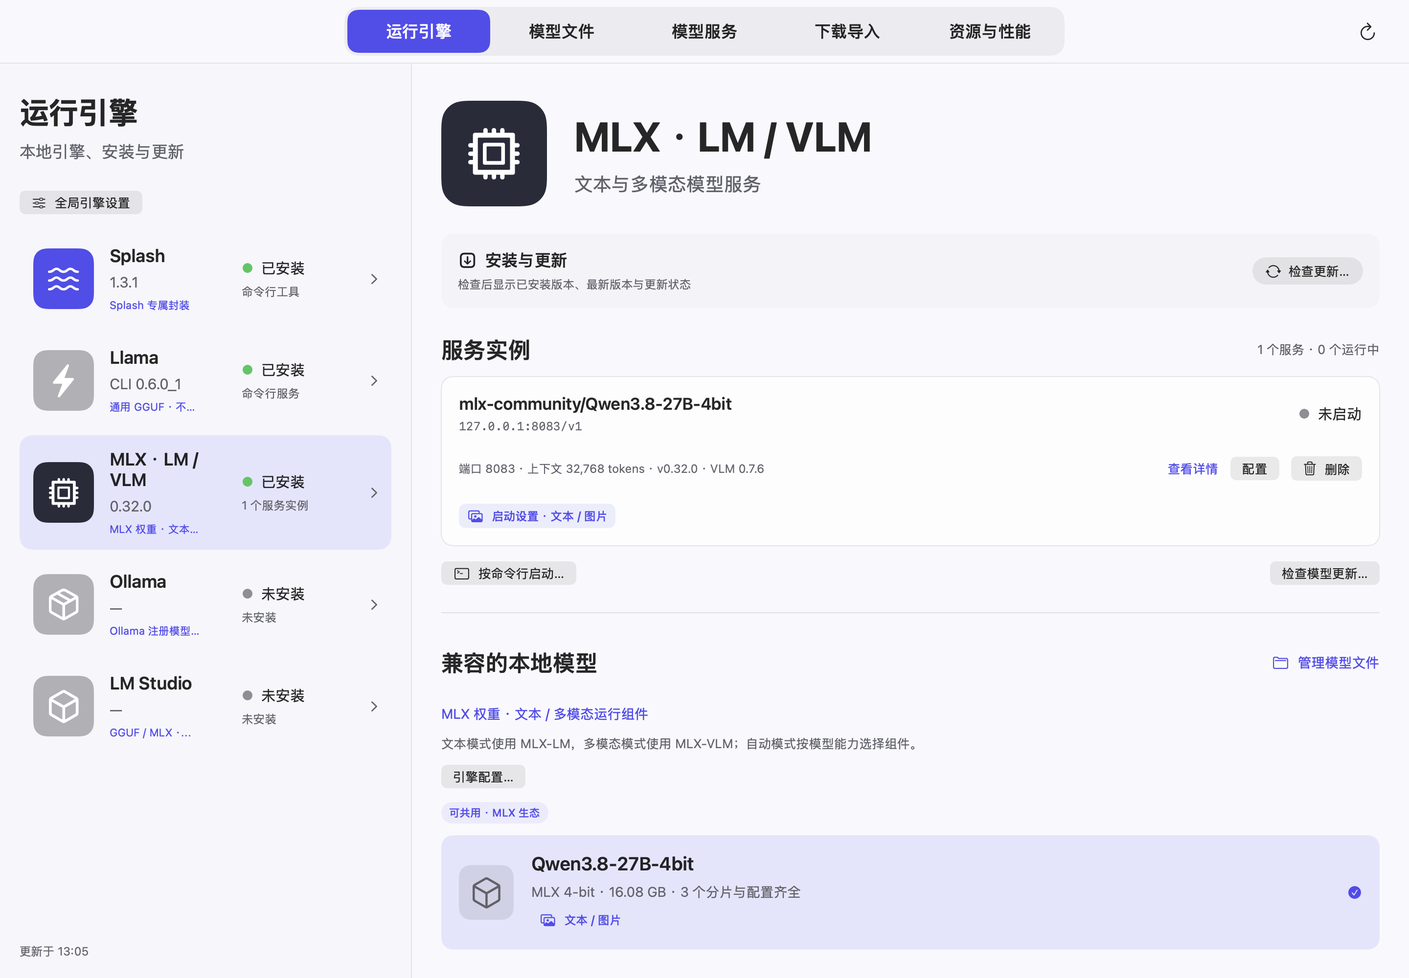
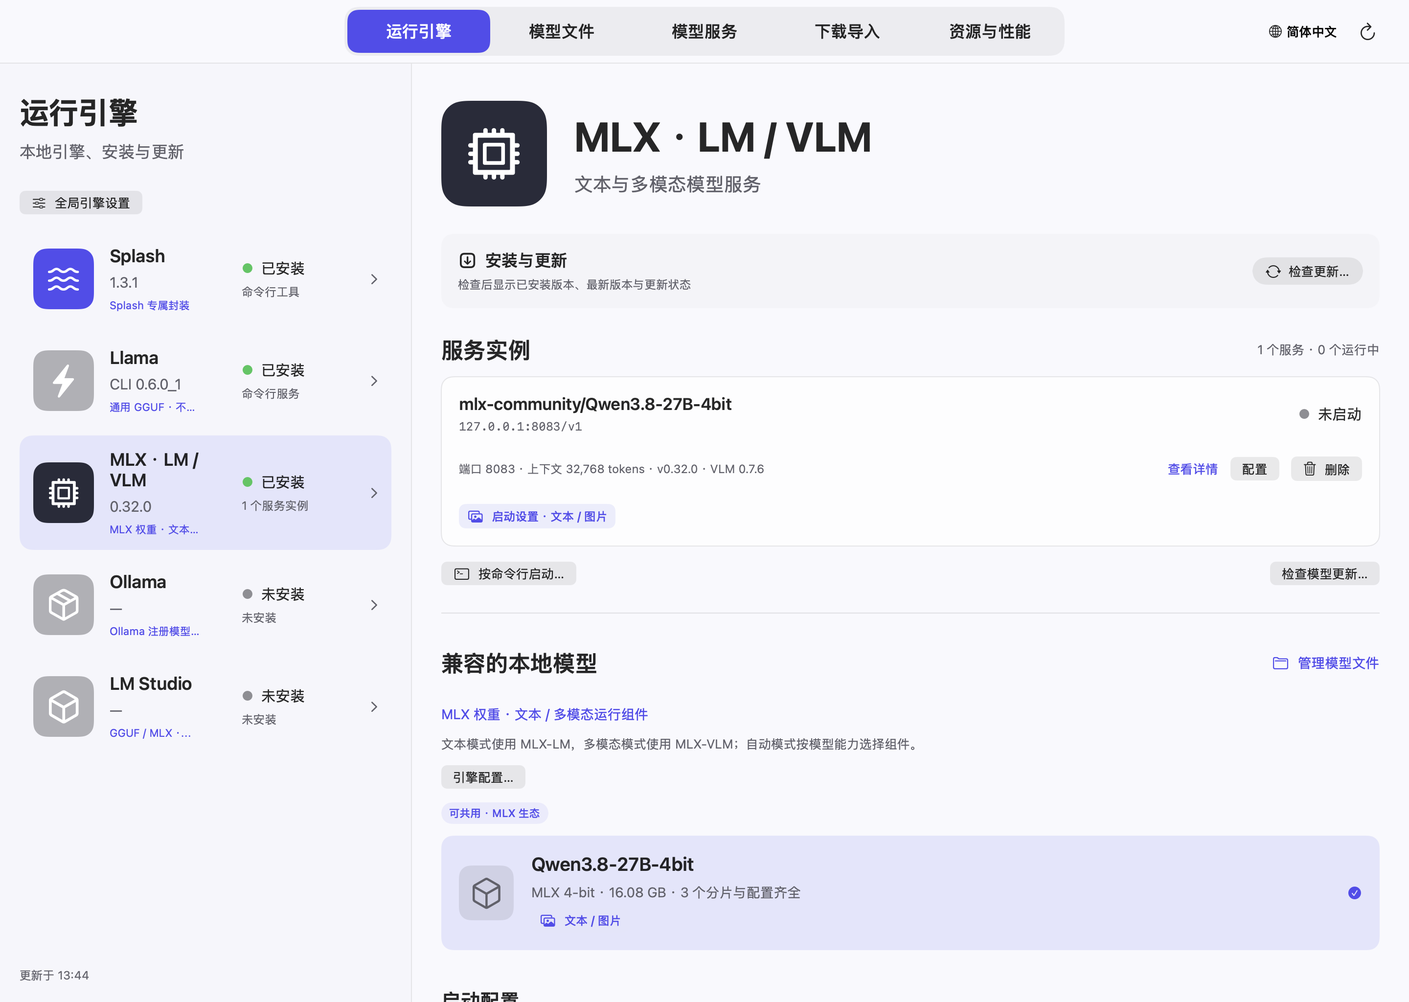
Add direct language menu shortcut in ModelDock 0.8.1

diff --git a/website/site.js b/website/site.js
@@ -10,7 +10,7 @@
       controlEye:'Stay in control',controlTitle:'Big downloads.<br>Small, clear decisions.',controlCopy:'Pause one file to make room for another. Keep old model revisions for later switching. Review cleanup before removing files.',controlOne:'Per-task and per-file progress, percentages and transfer speed.',controlTwo:'Task deletion preserves files; incomplete-file cleanup is a separate action.',controlThree:'Running models and shared auxiliary files receive deletion protection.',detailCaption:'Pause a file or prioritize another while keeping resumable data.',
       engineEye:'Use a compatible engine',engineTitle:'One manager. Different runtimes.',engineCopy:'Input capabilities depend on the model, its auxiliary components, and the actual runtime version.',engineCol:'Engine',formatCol:'Models',inputCol:'How it runs',splashModels:'Compatible upstream MLX; matching legacy packed models',splashInput:'Text; supported current assemblies can include images/PDFs and matched drafts',llamaInput:'Text or supported media with a matching projector',mlxInput:'LM for text; VLM for supported multimodal architectures',ollamaModels:'Ollama-registered models',ollamaInput:'Native model lifecycle and per-model capabilities',studioInput:'Load through the application or its supported CLI',prismInput:'Support depends on the local build and model architecture',strataModels:'External compatible API',strataInput:'Connect an upstream service; native Mac installation is not bundled',
       gatewayEye:'Bring your own client',gatewayTitle:'Direct connection.<br>Or one shared gateway.',gatewayCopy:"Register a ready model in pi or OpenCode. Use its own endpoint, or route local services and remote compatible APIs through ModelDock's gateway.",gatewayLink:'See the connection guide →',otherClient:'Your client',gatewayNode:'ModelDock gateway',localRoute:'Local services',remoteRoute:'Remote APIs',directNote:'Direct service endpoints remain available.',
-      languageEye:'Make it yours',languageTitle:'English by default.<br>Switch when you want.',languageCopy:'Choose English, Simplified Chinese, French, Portuguese or system language in Settings. The interface updates immediately.',menuTitle:'Keep the window closed.',menuCopy:'Watch system resources and downloads from the menu bar. Click outside the panel to dismiss it; reopen the manager when needed.',
+      languageEye:'Make it yours',languageTitle:'English by default.<br>Switch when you want.',languageCopy:'Use the globe/language button at the top right to choose English, Simplified Chinese, French, Portuguese or system language. The interface updates immediately; Settings also keeps the language option.',menuTitle:'Keep the window closed.',menuCopy:'Watch system resources and downloads from the menu bar. Click outside the panel to dismiss it; reopen the manager when needed.',
       licenseEye:'Source available · Noncommercial',licenseTitle:'Explore it. Learn from it.<br>Keep it noncommercial.',licenseCopy:'First-party code and documentation use PolyForm Noncommercial 1.0.0. Permitted noncommercial use, modification and redistribution are allowed; commercial use is not granted. Third-party engines and models keep their own terms.',licenseLink:'Read the license ↗',finalTitle:'Give your models a home.',source:'View the source ↗',installNote:'Current releases are not Apple-notarized. See the installation guide before opening a downloaded copy.',footer:'Made for local AI on Mac. Source-available, for noncommercial purposes.'
     },
     zh: {
@@ -19,7 +19,7 @@
       controlEye:'掌握下载与文件',controlTitle:'模型文件很大。<br>每个操作很清楚。',controlCopy:'暂停某个文件，让其他文件先下载。保留旧模型版本供后续切换，清理前先核对范围。',controlOne:'任务与单文件进度、百分比、传输速度。',controlTwo:'删除任务保留文件；清理未完成文件是独立操作。',controlThree:'运行中的模型和共用辅助文件受到删除保护。',detailCaption:'暂停文件或优先下载其他文件，保留可续传的数据。',
       engineEye:'选择适配的引擎',engineTitle:'一个管理工具，多种运行基座。',engineCopy:'输入能力取决于模型、配套组件和实际运行时版本。',engineCol:'基座',formatCol:'模型',inputCol:'运行方式',splashModels:'兼容的上游 MLX；匹配的旧 packed 模型',splashInput:'文本；适配的新版组合支持图片/PDF 与匹配草稿',llamaInput:'文本；支持的多模态需匹配投影组件',mlxInput:'LM 用于文本，VLM 用于支持的多模态架构',ollamaModels:'已登记的 Ollama 模型',ollamaInput:'使用原生模型管理，能力依具体模型而定',studioInput:'在原应用或支持的命令行中加载',prismInput:'支持情况取决于本地构建和模型架构',strataModels:'外部兼容 API',strataInput:'接入上游服务；当前未内置原生 Mac 安装方式',
       gatewayEye:'连接你常用的客户端',gatewayTitle:'直接连接。<br>也可统一接入。',gatewayCopy:'将就绪模型登记到 pi 或 OpenCode。使用独立服务地址，或把本机服务、远程兼容 API 接入模型坞网关。',gatewayLink:'查看客户端接入说明 →',otherClient:'其他客户端',gatewayNode:'ModelDock 统一网关',localRoute:'本机模型服务',remoteRoute:'远程 API',directNote:'独立服务仍可直接连接。',
-      languageEye:'按自己的习惯使用',languageTitle:'默认英语。<br>语言随时切换。',languageCopy:'设置中支持英语、简体中文、法语、葡萄牙语或跟随系统，界面立即更新。',menuTitle:'主窗口可以关着。',menuCopy:'在菜单栏查看资源和下载状态，点击面板外部自动收起，需要时再打开管理界面。',licenseEye:'源码可见 · 非商业许可',licenseTitle:'可以探索与学习。<br>限于非商业用途。',licenseCopy:'第一方代码和文档采用 PolyForm Noncommercial 1.0.0，允许规定的非商业使用、修改与再分发，没有授予商业使用许可。第三方基座及模型保持各自条款。',licenseLink:'阅读许可原文 ↗',finalTitle:'给你的模型一个停靠处。',source:'查看源码 ↗',installNote:'当前发行包尚未通过 Apple 公证，首次打开前请参考安装说明。',footer:'为 Mac 本地模型管理而做。源码可见，限于非商业用途。'
+      languageEye:'按自己的习惯使用',languageTitle:'默认英语。<br>语言随时切换。',languageCopy:'点击主界面右上角的地球/语言按钮，选择英语、简体中文、法语、葡萄牙语或跟随系统，界面立即更新。设置中也保留语言选项。',menuTitle:'主窗口可以关着。',menuCopy:'在菜单栏查看资源和下载状态，点击面板外部自动收起，需要时再打开管理界面。',licenseEye:'源码可见 · 非商业许可',licenseTitle:'可以探索与学习。<br>限于非商业用途。',licenseCopy:'第一方代码和文档采用 PolyForm Noncommercial 1.0.0，允许规定的非商业使用、修改与再分发，没有授予商业使用许可。第三方基座及模型保持各自条款。',licenseLink:'阅读许可原文 ↗',finalTitle:'给你的模型一个停靠处。',source:'查看源码 ↗',installNote:'当前发行包尚未通过 Apple 公证，首次打开前请参考安装说明。',footer:'为 Mac 本地模型管理而做。源码可见，限于非商业用途。'
     }
   };
   let lang='en', tab='downloads';

diff --git a/Sources/Views.swift b/Sources/Views.swift
@@ -55,6 +55,40 @@ extension ServiceStatus {
 }
 
 @MainActor
+struct LanguageMenu: View {
+    @ObservedObject var store: AppStore
+    var compact: Bool
+    private var shortName: String {
+        switch store.language {
+        case .english: return "EN"
+        case .chinese: return "中"
+        case .french: return "FR"
+        case .portuguese: return "PT"
+        case .system: return "Auto"
+        }
+    }
+    var body: some View {
+        Menu {
+            Picker(L10n.text("界面语言"), selection: $store.language) {
+                ForEach(AppLanguage.allCases, id: \.self) { language in
+                    Text(verbatim: language.name).tag(language)
+                }
+            }.pickerStyle(.inline).labelsHidden()
+        } label: {
+            HStack(spacing: 4) {
+                Image(systemName: "globe").font(.system(size: 15))
+                Text(verbatim: compact ? shortName : store.language.name).font(.system(size: compact ? 11 : 13, weight: .medium))
+            }.frame(width: compact ? 44 : nil, height: 44)
+        }
+        .id(store.language)
+        .menuStyle(.borderlessButton).menuIndicator(.hidden).fixedSize()
+        .help(L10n.text("界面语言"))
+        .accessibilityLabel(L10n.text("界面语言"))
+        .accessibilityIdentifier("language-menu")
+    }
+}
+
+@MainActor
 struct MainView: View {
     @ObservedObject var store: AppStore
     @ObservedObject var services: ServiceController
@@ -62,13 +96,14 @@ struct MainView: View {
         GeometryReader { geometry in
             VStack(spacing: 0) {
                 ZStack {
+                    let tabWidth = min(146, (geometry.size.width - 300) / CGFloat(AppTab.allCases.count))
                     HStack(spacing: 0) {
                         ForEach(Array(AppTab.allCases.enumerated()), id: \.element) { index, tab in
-                            Button { store.tab = tab } label: { Text(verbatim: L10n.text(tab.rawValue)).font(.system(size: 17, weight: .semibold)).frame(width: 146, height: 44).background(store.tab == tab ? Theme.accent : .clear, in: RoundedRectangle(cornerRadius: 11)).foregroundStyle(store.tab == tab ? Color.white : Color.primary) }
+                            Button { store.tab = tab } label: { Text(verbatim: L10n.text(tab.rawValue)).font(.system(size: 17, weight: .semibold)).lineLimit(1).minimumScaleFactor(0.8).frame(width: tabWidth, height: 44).background(store.tab == tab ? Theme.accent : .clear, in: RoundedRectangle(cornerRadius: 11)).foregroundStyle(store.tab == tab ? Color.white : Color.primary) }
                                 .buttonStyle(.plain).keyboardShortcut(KeyEquivalent(Character(String(index + 1))), modifiers: .command).accessibilityIdentifier("tab-\(index)")
                         }
                     }.padding(3).background(Theme.line.opacity(0.6), in: RoundedRectangle(cornerRadius: 14))
-                    HStack { Spacer(); if store.scanning { ProgressView().controlSize(.small) }; Button { store.scan() } label: { Image(systemName: "arrow.clockwise").font(.system(size: 17)).frame(width: 44, height: 44) }.buttonStyle(.plain).help(L10n.text("重新扫描模型与引擎 · ⌘R")).keyboardShortcut("r", modifiers: .command).disabled(store.scanning) }.padding(.trailing, 20)
+                    HStack(spacing: 6) { Spacer(); if store.scanning { ProgressView().controlSize(.small) }; LanguageMenu(store: store, compact: geometry.size.width < 1200); Button { store.scan() } label: { Image(systemName: "arrow.clockwise").font(.system(size: 17)).frame(width: 44, height: 44) }.buttonStyle(.plain).help(L10n.text("重新扫描模型与引擎 · ⌘R")).keyboardShortcut("r", modifiers: .command).disabled(store.scanning) }.padding(.trailing, 20)
                 }.frame(height: 64)
                 Rectangle().fill(Theme.line).frame(height: 1)
                 let sidebarWidth = max(310, min(420, geometry.size.width * 0.292))

diff --git a/website/guide.html b/website/guide.html
@@ -30,7 +30,7 @@
 <h2 id="1-install-and-choose-a-language">1. Install and choose a language</h2>
 <p>Use an Apple Silicon Mac running macOS 14 or later. Download a DMG or ZIP from the project's Releases page, move <strong>ModelDock.app</strong> to <strong>Applications</strong>, and open it. Models and third-party engines are installed separately; the app bundles the Python runtime needed by its gateway.</p>
 <p>Current packages use an ad-hoc signature and have not been Apple-notarized. If a trusted downloaded copy is blocked, attempt to open it, then follow the <strong>Open Anyway</strong> flow in <strong>System Settings → Privacy &amp; Security</strong> described by <a href="https://support.apple.com/102445">Apple</a>. Only open distributions you trust.</p>
-<p>English is the default on first launch, including on non-English systems. Open <strong>ModelDock → Settings…</strong> (⌘,) and choose <strong>English</strong>, <strong>简体中文</strong>, <strong>Français</strong>, <strong>Português</strong>, or <strong>Follow system</strong>. The interface changes immediately and the choice is saved.</p>
+<p>English is the default on first launch, including on non-English systems. Click the <strong>globe/language button at the top right of the main window</strong>, then choose <strong>English</strong>, <strong>简体中文</strong>, <strong>Français</strong>, <strong>Português</strong>, or <strong>Follow system</strong>. In a narrow window, the button shows the globe and a language abbreviation such as <strong>EN</strong>. You can also open <strong>ModelDock → Settings…</strong> (⌘,) to change <strong>Interface language</strong>. The interface changes immediately and the choice is saved.</p>
 <p><img alt="Interface language and close behavior" src="assets/en-settings.png" /></p>
 <p>The main window closes to the background by default. A second option quits the app when closing its window, with a confirmation each time.</p>
 <h2 id="2-prepare-an-engine">2. Prepare an engine</h2>

diff --git a/website/guide.zh-CN.html b/website/guide.zh-CN.html
@@ -30,7 +30,7 @@
 <h2 id="1">1. 安装与语言选择</h2>
 <p>使用 Apple Silicon、macOS 14 或更新版本的 Mac。从项目 Releases 下载 DMG 或 ZIP，把 <strong>ModelDock.app</strong> 放进“应用程序”并打开。模型和第三方引擎需要另外准备；应用已附带统一网关需要的 Python 环境。</p>
 <p>当前安装包使用临时签名，尚未经过 Apple 公证。如果可信来源的安装包被拦截，先尝试打开，再按照 <a href="https://support.apple.com/102445">Apple 官方说明</a>，在“系统设置 → 隐私与安全性”选择“仍要打开”。只打开可信来源的程序。</p>
-<p><strong>首次启动默认英语</strong>，不因系统为中文而改变。在菜单 <strong>ModelDock → Settings…</strong>（⌘,）中切换 English、简体中文、Français、Português 或跟随系统。语言立即生效并自动保存。</p>
+<p><strong>首次启动默认英语</strong>，不因系统为中文而改变。点击主窗口<strong>右上角的地球/语言按钮</strong>，直接选择 English、简体中文、Français、Português 或跟随系统。窄窗口显示地球图标和 <strong>EN</strong> 等语言缩写。也可在菜单 <strong>ModelDock → Settings…</strong>（⌘,）中修改界面语言。切换立即生效并自动保存。</p>
 <p><img alt="语言选择与窗口关闭设置" src="assets/zh-Hans-settings.png" /></p>
 <p>默认关闭主窗口后保持后台运行。也可以选择关闭窗口时退出，每次退出都会再次确认。</p>
 <h2 id="2">2. 准备模型基座</h2>

diff --git a/Tools/prepare_publish.py b/Tools/prepare_publish.py
@@ -1,20 +1,22 @@
 """Stage only reviewed source, documentation and static assets for public GitHub."""
 from pathlib import Path
-import json, shutil, zipfile, hashlib
+import json, shutil, zipfile, hashlib, re, sys
 root=Path(__file__).resolve().parents[1]
-out=root/'artifacts/publish-v080';stage=out/'ModelDock';stage.mkdir(parents=True,exist_ok=True)
+version=sys.argv[1] if len(sys.argv)>1 else re.search(r'CFBundleShortVersionString</key><string>([^<]+)',(root/'build.sh').read_text()).group(1)
+assert re.fullmatch(r'\d+\.\d+\.\d+',version),'Expected a release version'
+out=root/('artifacts/publish-v'+version.replace('.',''));stage=out/'ModelDock';stage.mkdir(parents=True,exist_ok=True)
 files=['README.md','README.zh-CN.md','CONTRIBUTING.md','LICENSE','LICENSE-NOTICE.txt','.gitignore','build.sh','package.py','prepare-runtime.py','prepare-notices.py']
 folders=['Sources','Resources','Tests','Tools','docs','website','.github']
 for name in files:shutil.copy2(root/name,stage/name)
 for name in folders:
  shutil.copytree(root/name,stage/name,dirs_exist_ok=True,ignore=shutil.ignore_patterns('__pycache__','*.pyc','.DS_Store'))
-selected=[p for p in stage.rglob('*') if p.is_file()]
+selected=[p for p in stage.rglob('*') if p.is_file() and '.git' not in p.relative_to(stage).parts]
 for p in selected:
  if p.suffix in ['.swift','.py','.mjs','.md','.html','.js','.yml','.json','.txt']:
   text=p.read_text()
   assert str(Path.home()) not in text,('Developer path in staged source',p)
  assert not p.is_symlink(),('Unexpected public symlink',p)
-archive=out/'ModelDock-0.8.0-source-and-docs.zip'
+archive=out/('ModelDock-'+version+'-source-and-docs.zip')
 with zipfile.ZipFile(archive,'w',zipfile.ZIP_DEFLATED) as z:
  for p in selected:z.write(p,p.relative_to(out))
 manifest={'result':'prepared','repository':'https://github.com/etongle/ModelDock','remoteWritesPerformed':False,'files':len(selected),'archive':archive.name,'bytes':archive.stat().st_size,'sha256':hashlib.sha256(archive.read_bytes()).hexdigest(),'includes':['first-party source','localization catalogs','dependency license notices','English/Chinese introductions and illustrated guides','GitHub Pages static site/workflow'],'excludes':['personal state','model weights','build caches','runtime archives','development screenshots/logs','credentials','synced project sources']}

diff --git a/package.py b/package.py
@@ -28,8 +28,9 @@ Apple Silicon (M-series) Macs · macOS 14 or later.
 
 1. Open the DMG and drag ModelDock.app to Applications.
 2. Open ModelDock from Applications. The first-launch language is English.
-3. Settings → Interface language supports English, 简体中文, Français,
-   Português and Follow system. Language changes apply immediately.
+3. Click the globe/language button at the top right to choose English,
+   简体中文, Français, Português or Follow system. Settings (⌘,) also has
+   Interface language. Language changes apply immediately.
 4. Select/install a compatible engine, then import or download a model.
    Homebrew-managed engines require Homebrew: https://brew.sh
    The manager includes the Python runtime used by its unified gateway.
@@ -51,8 +52,9 @@ in Contents/Resources. External engines/models retain their own licenses.
 Project and illustrated guides: https://github.com/etongle/ModelDock
 
 中文
-将 ModelDock.app 拖到“应用程序”并打开。首次默认英语，可在设置中切换中文、
-法语、葡萄牙语或跟随系统。可信安装包被拦截时参考上面的 Apple 官方说明。
+将 ModelDock.app 拖到“应用程序”并打开。首次默认英语，点击主界面右上角的地球
+语言按钮即可切换，也可按 ⌘, 打开设置。支持中文、法语、葡萄牙语或跟随系统。
+可信安装包被拦截时参考上面的 Apple 官方说明。
 默认关闭主窗口继续后台运行，点击菜单栏图标重新打开，点击面板外部自动收起。
 软件限于许可规定的非商业使用；第一方与第三方许可在应用资源中保留。
 本发行包不包含个人配置、密钥或模型权重。

diff --git a/README.md b/README.md
@@ -45,7 +45,7 @@ A format label does not guarantee that every engine can run every architecture. 
 5. Choose the model and a compatible engine, review text/multimodal settings, then start its service.
 6. Open **Services → One-click integration** to register it with pi or OpenCode, or copy its API endpoint.
 
-English is the first-launch default. Open **Settings → Interface language** to choose Chinese, French, Portuguese, or system language. Changes apply immediately.
+English is the first-launch default. Click the **globe/language button at the top right** to choose English, Chinese, French, Portuguese, or system language. You can also open **Settings → Interface language** with **⌘,**. Changes apply immediately.
 
 Read the [illustrated user guide](docs/USER_GUIDE.md) for download management, draft models, updates, deletion, gateway setup, troubleshooting, and keyboard shortcuts.
 
@@ -73,7 +73,7 @@ The app targets macOS 14 and later. The current release was tested on the develo
 
 ## Documentation website
 
-The buildless static site is in `website/`. After publishing this repository, choose **Settings → Pages → Source: GitHub Actions**. The included workflow publishes that directory to `https://etongle.github.io/ModelDock/` on pushes affecting the website, or through a manual workflow run. See [website maintenance](docs/WEBSITE.md).
+Visit the [bilingual documentation website](https://etongle.github.io/ModelDock/) for an introduction and illustrated guides. The buildless static site is in `website/`; the included GitHub Actions workflow deploys it on pushes affecting the website, or through a manual run. See [website maintenance](docs/WEBSITE.md).
 
 ## License
 

diff --git a/README.zh-CN.md b/README.zh-CN.md
@@ -45,7 +45,7 @@
 5. 选择模型与兼容基座，检查纯文本或多模态设置，再启动服务。
 6. 在“模型服务 → 一键接入”登记到 pi、OpenCode，或复制服务地址。
 
-**首次启动默认英语。**在“设置 → 界面语言”选择简体中文、法语、葡萄牙语或跟随系统，切换立即生效。
+**首次启动默认英语。**点击主界面右上角的**地球/语言按钮**，直接选择英语、简体中文、法语、葡萄牙语或跟随系统。也可按 **⌘,** 打开“设置 → 界面语言”，切换立即生效。
 
 完整操作、下载管理、草稿关联、版本更新、删除保护、网关及常见问题见[带配图的使用说明](docs/USER_GUIDE.zh-CN.md)。
 
@@ -73,7 +73,7 @@ python3 Tests/packaged_release_checks.py
 
 ## GitHub 网站
 
-`website/` 是无需构建的静态网站。上传仓库后，在 **Settings → Pages → Source** 选择 **GitHub Actions**；更新网站或手动运行附带工作流即可发布到 `https://etongle.github.io/ModelDock/`。维护方法见[网站说明](docs/WEBSITE.md)。
+访问[双语项目网站](https://etongle.github.io/ModelDock/)查看介绍和详细图文说明。`website/` 是无需构建的静态网站；更新网站或手动运行附带的 GitHub Actions 工作流即可部署。维护方法见[网站说明](docs/WEBSITE.md)。
 
 ## 许可：禁止商业使用
 

diff --git a/docs/USER_GUIDE.md b/docs/USER_GUIDE.md
@@ -12,7 +12,7 @@ Use an Apple Silicon Mac running macOS 14 or later. Download a DMG or ZIP from t
 
 Current packages use an ad-hoc signature and have not been Apple-notarized. If a trusted downloaded copy is blocked, attempt to open it, then follow the **Open Anyway** flow in **System Settings → Privacy & Security** described by [Apple](https://support.apple.com/102445). Only open distributions you trust.
 
-English is the default on first launch, including on non-English systems. Open **ModelDock → Settings…** (⌘,) and choose **English**, **简体中文**, **Français**, **Português**, or **Follow system**. The interface changes immediately and the choice is saved.
+English is the default on first launch, including on non-English systems. Click the **globe/language button at the top right of the main window**, then choose **English**, **简体中文**, **Français**, **Português**, or **Follow system**. In a narrow window, the button shows the globe and a language abbreviation such as **EN**. You can also open **ModelDock → Settings…** (⌘,) to change **Interface language**. The interface changes immediately and the choice is saved.
 
 ![Interface language and close behavior](assets/images/en-settings.png)
 

diff --git a/docs/USER_GUIDE.zh-CN.md b/docs/USER_GUIDE.zh-CN.md
@@ -12,7 +12,7 @@
 
 当前安装包使用临时签名，尚未经过 Apple 公证。如果可信来源的安装包被拦截，先尝试打开，再按照 [Apple 官方说明](https://support.apple.com/102445)，在“系统设置 → 隐私与安全性”选择“仍要打开”。只打开可信来源的程序。
 
-**首次启动默认英语**，不因系统为中文而改变。在菜单 **ModelDock → Settings…**（⌘,）中切换 English、简体中文、Français、Português 或跟随系统。语言立即生效并自动保存。
+**首次启动默认英语**，不因系统为中文而改变。点击主窗口**右上角的地球/语言按钮**，直接选择 English、简体中文、Français、Português 或跟随系统。窄窗口显示地球图标和 **EN** 等语言缩写。也可在菜单 **ModelDock → Settings…**（⌘,）中修改界面语言。切换立即生效并自动保存。
 
 ![语言选择与窗口关闭设置](assets/images/zh-Hans-settings.png)
 
